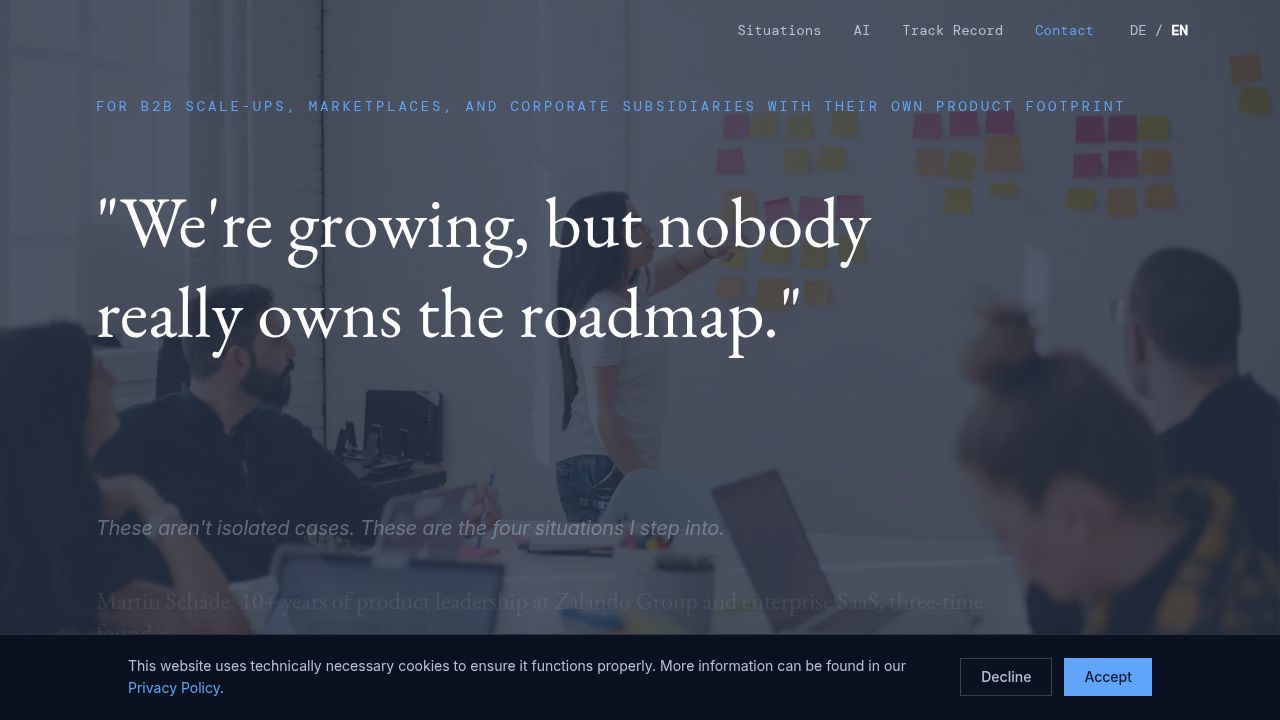
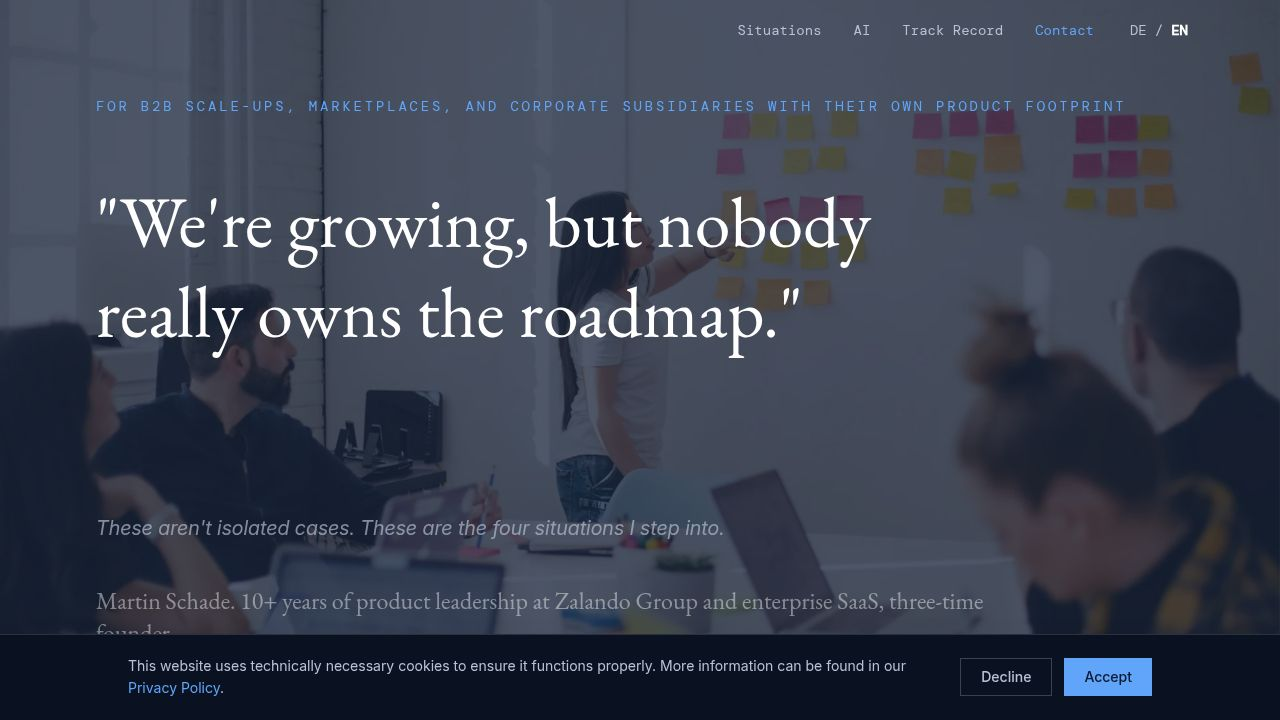
Fix duplicate element IDs from dual LanguageSwitcher instances (Task #12)
Problem: home.tsx nav rendered two LanguageSwitcher instances simultaneously
(desktop, hidden via `hidden md:flex`, and mobile, hidden via `md:hidden`).
Both used identical data-testid values (language-switcher, button-lang-de,
button-lang-en), producing duplicate DOM nodes with the same testid at the
same time - only one visible via CSS. This forced automated tests to use
.nth(0)/.nth(1) to disambiguate and is a footgun for future testing/a11y
tooling.

Fix:
- Added an optional `instanceId` prop to LanguageSwitcher
  (artifacts/portfolio/src/components/LanguageSwitcher.tsx). When set, it's
  appended as a suffix to all data-testid values on that instance
  (e.g. button-lang-de-desktop vs button-lang-de-mobile). Defaults to no
  suffix when omitted, so other single-instance usages (not-found.tsx,
  impressum.tsx, datenschutz.tsx) are unaffected.
- Updated home.tsx nav to pass instanceId="desktop" and instanceId="mobile"
  to the two LanguageSwitcher instances, making their testids unique.

Verified:
- pnpm --filter @user/portfolio run typecheck passes.
- Restarted the portfolio workflow and visually confirmed nav renders
  correctly at both mobile (390px) and desktop (1280px) viewports.

No follow-up tasks proposed - this was a small, fully self-contained fix
with no discovered adjacent work outside existing task scope.

Replit-Task-Id: b719e422-86e0-4df5-a12f-30648d2a65d5

Changed region(s): [[0.0625, 0.825, 0.7812, 0.8556]]

diff --git a/artifacts/portfolio/src/components/LanguageSwitcher.tsx b/artifacts/portfolio/src/components/LanguageSwitcher.tsx
@@ -2,27 +2,29 @@ import { useLanguage } from "@/lib/language-context";
 
 interface LanguageSwitcherProps {
   variant?: "dark" | "light";
+  instanceId?: string;
 }
 
-export default function LanguageSwitcher({ variant = "dark" }: LanguageSwitcherProps) {
+export default function LanguageSwitcher({ variant = "dark", instanceId }: LanguageSwitcherProps) {
   const { language, setLanguage, t } = useLanguage();
 
   const activeClass = variant === "dark" ? "text-white" : "text-[#1A1815]";
   const inactiveClass = variant === "dark" ? "text-[#B8C2D4] hover:text-white" : "text-[#1A1815]/50 hover:text-[#1A1815]";
+  const suffix = instanceId ? `-${instanceId}` : "";
 
   return (
     <div
       className="flex items-center gap-1 font-mono text-sm"
       role="group"
       aria-label={t.common.langSwitchLabel}
-      data-testid="language-switcher"
+      data-testid={`language-switcher${suffix}`}
     >
       <button
         type="button"
         onClick={() => setLanguage("de")}
         className={`px-1 transition-colors ${language === "de" ? activeClass + " font-semibold" : inactiveClass}`}
         aria-pressed={language === "de"}
-        data-testid="button-lang-de"
+        data-testid={`button-lang-de${suffix}`}
       >
         DE
       </button>
@@ -32,7 +34,7 @@ export default function LanguageSwitcher({ variant = "dark" }: LanguageSwitcherP
         onClick={() => setLanguage("en")}
         className={`px-1 transition-colors ${language === "en" ? activeClass + " font-semibold" : inactiveClass}`}
         aria-pressed={language === "en"}
-        data-testid="button-lang-en"
+        data-testid={`button-lang-en${suffix}`}
       >
         EN
       </button>

diff --git a/artifacts/portfolio/src/pages/home.tsx b/artifacts/portfolio/src/pages/home.tsx
@@ -130,10 +130,10 @@ export default function Home() {
             <a href="#ki" className="text-[#B8C2D4] hover:text-white transition-colors">{h.nav.ki}</a>
             <a href="#track-record" className="text-[#B8C2D4] hover:text-white transition-colors">{h.nav.trackRecord}</a>
             <a href="#kontakt" className="text-[#60A5FA] hover:text-white transition-colors">{h.nav.kontakt}</a>
-            <LanguageSwitcher variant="dark" />
+            <LanguageSwitcher variant="dark" instanceId="desktop" />
           </div>
           <div className="md:hidden flex items-center gap-4">
-            <LanguageSwitcher variant="dark" />
+            <LanguageSwitcher variant="dark" instanceId="mobile" />
             <button
               data-testid="button-mobile-menu"
               className="flex flex-col justify-center items-center w-8 h-8 gap-[5px] group"